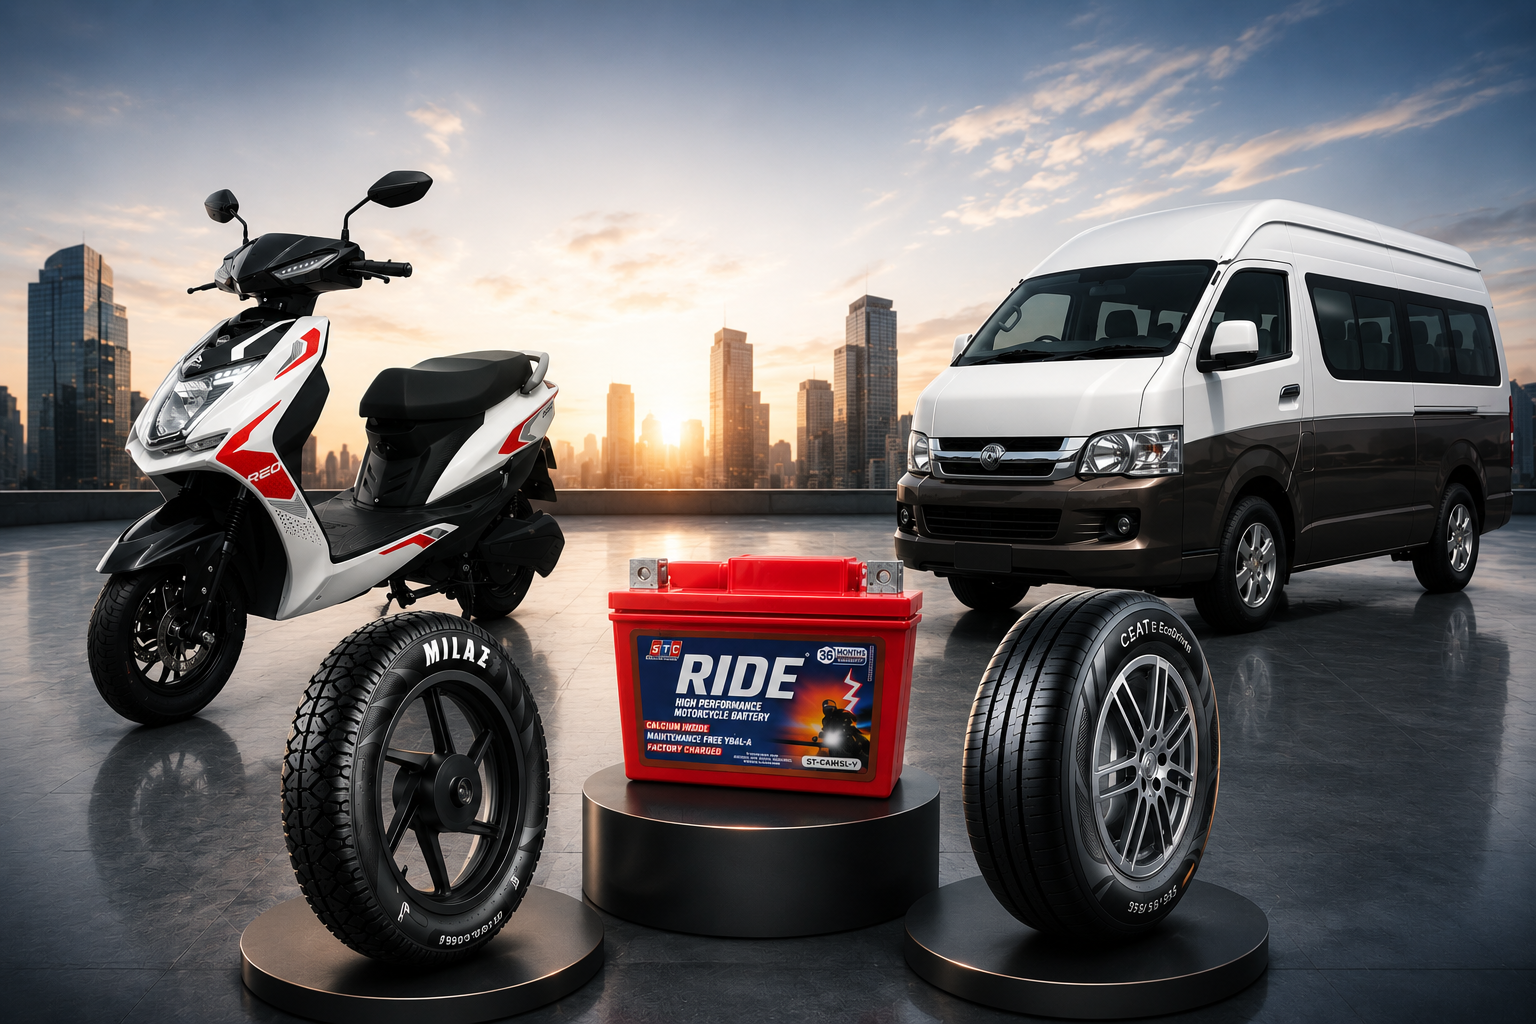
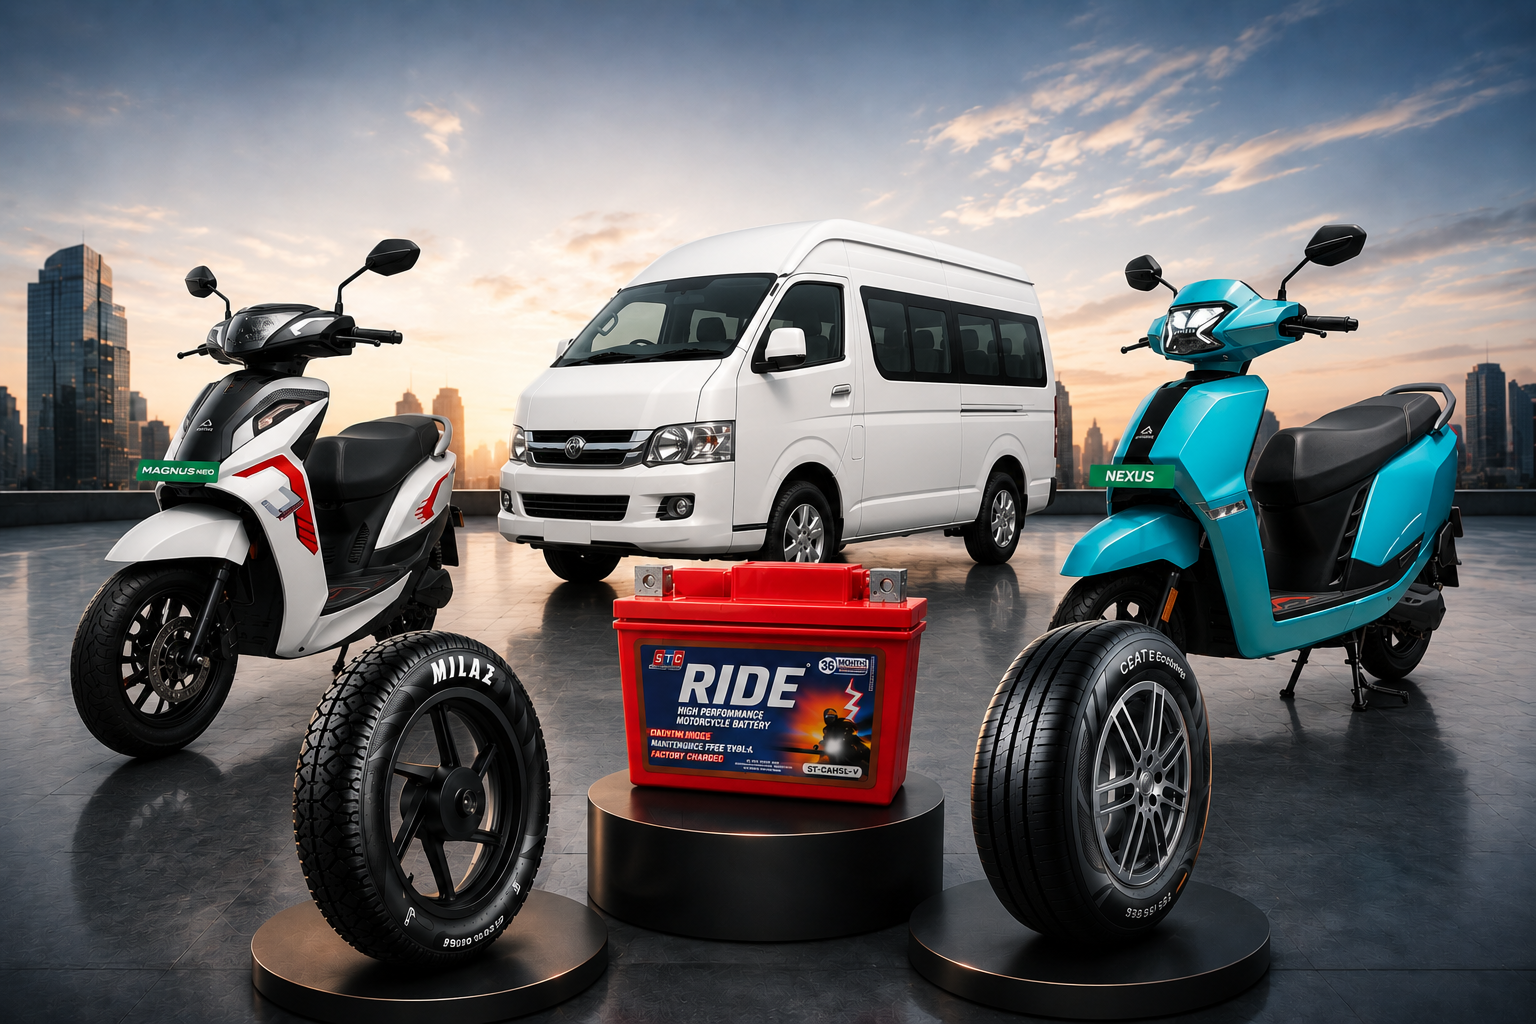
add ev section with images

diff --git a/index.html b/index.html
@@ -257,7 +257,7 @@
         <a href="https://stcautosolutions.com/" class="product-preview-btn" target="_blank" rel="noopener noreferrer">Learn more</a>
     </div>
 
-    <div class="product-preview-card">
+<div class="product-preview-card">
   <div class="product-preview-image">
     <img src="/logoimg/ask.png" alt="Brake parts">
   </div>